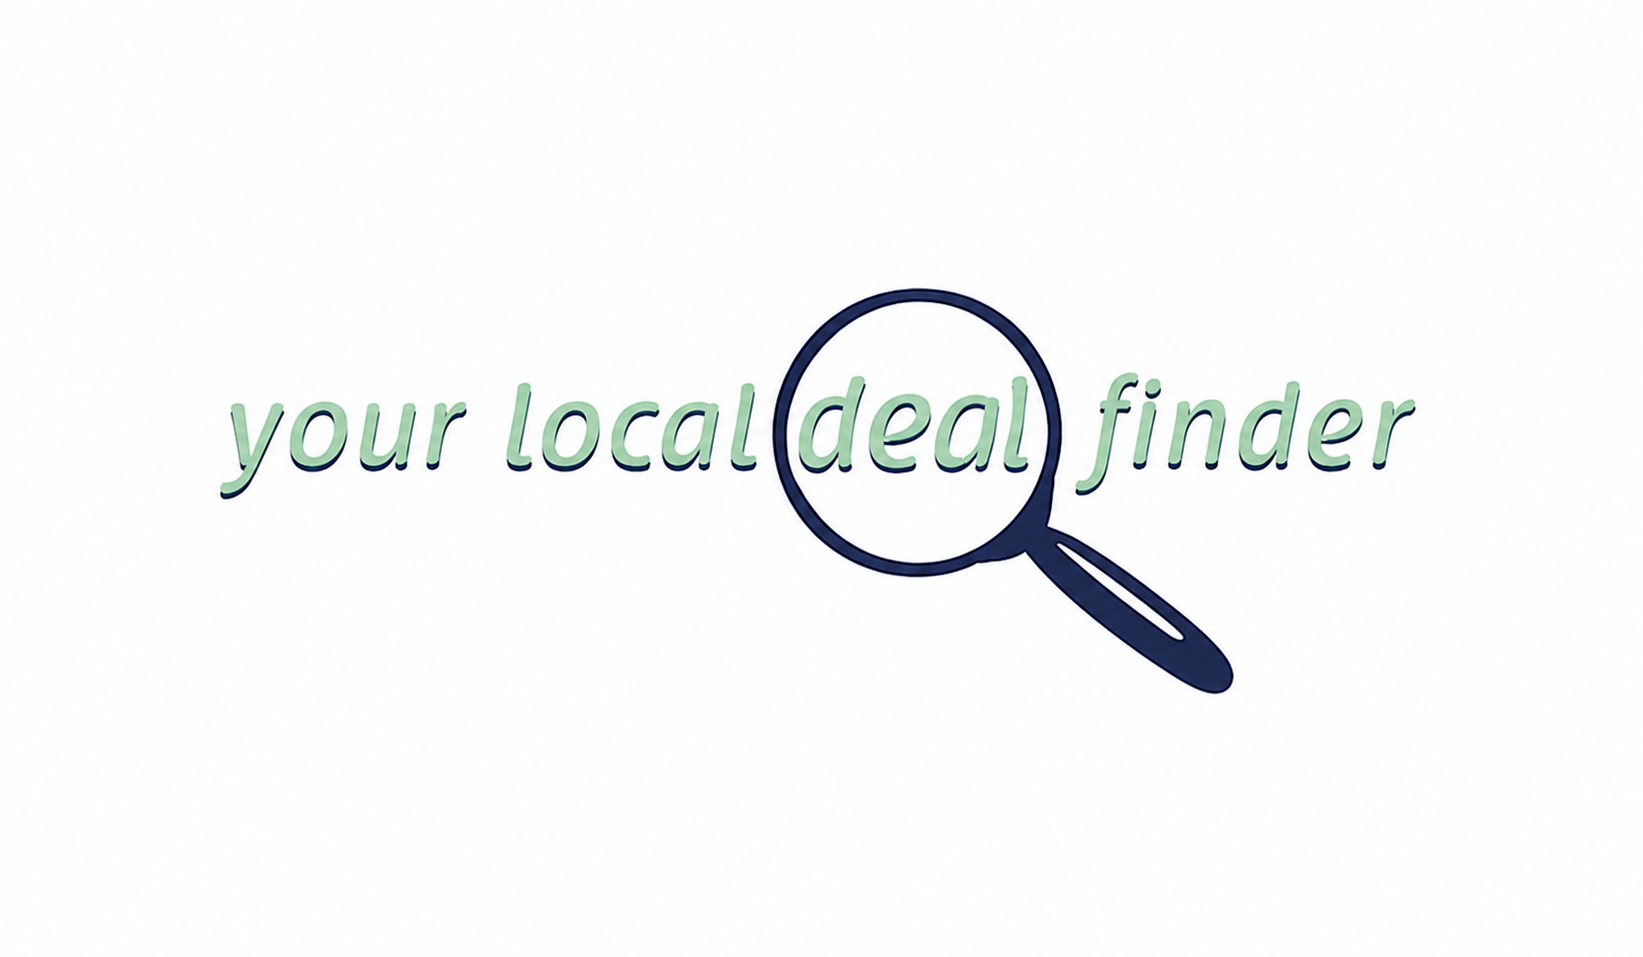
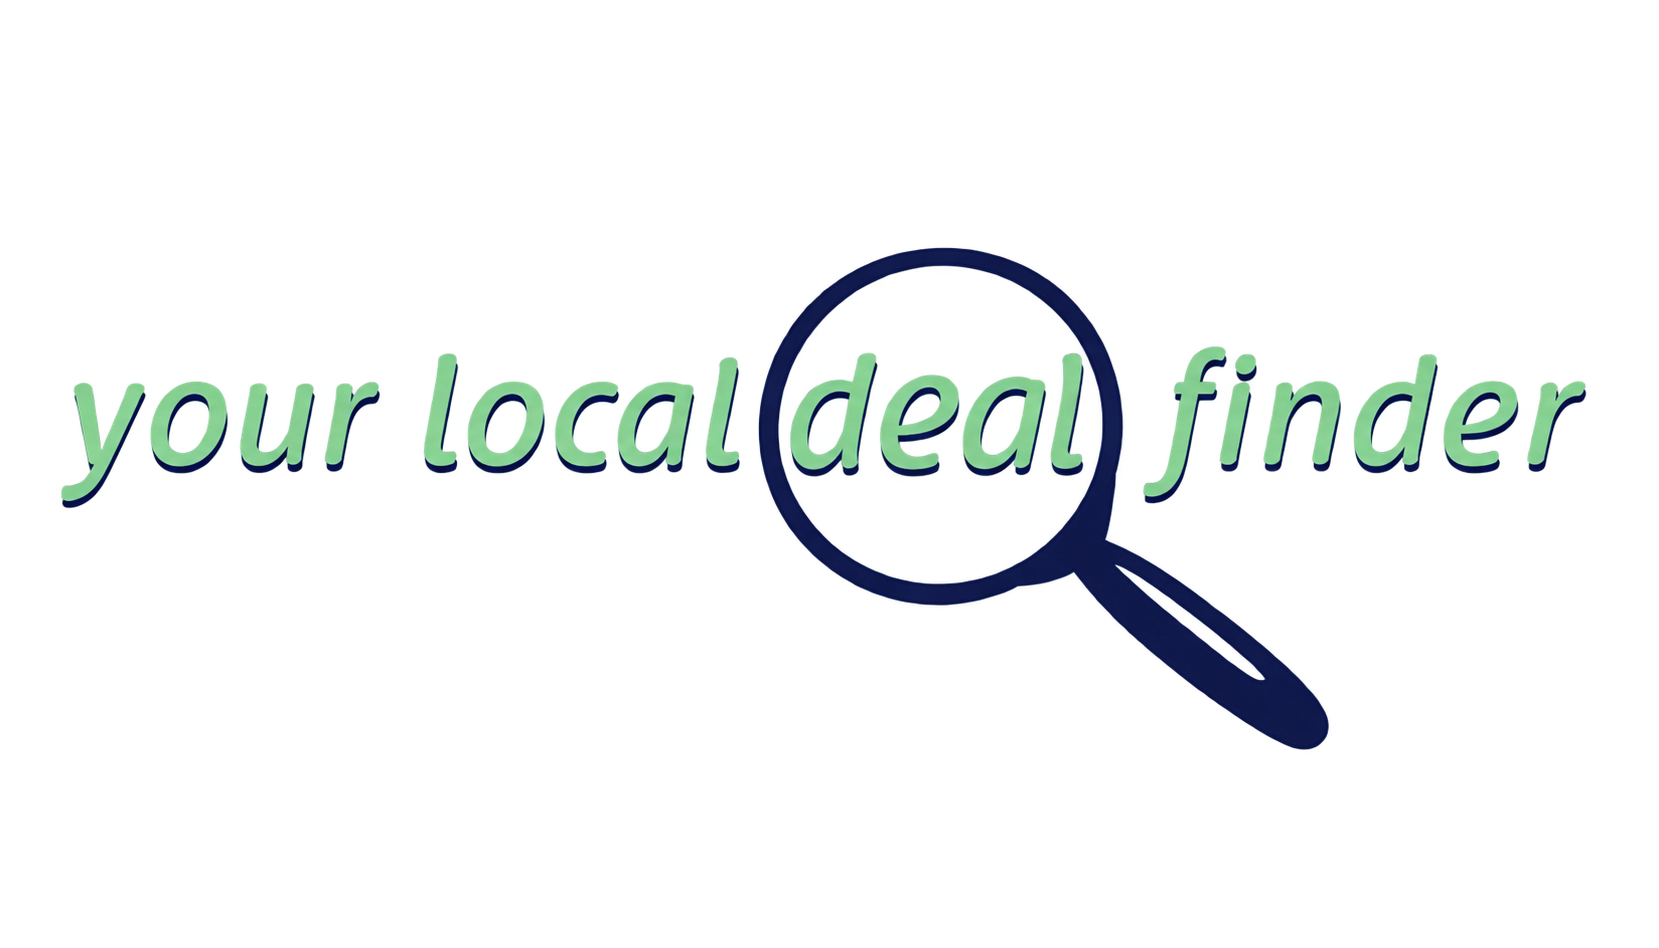
Bigger tagline image on Login

Changed region(s): [[0.031, 0.2447, 0.9623, 0.7954]]

diff --git a/src/pages/Login.jsx b/src/pages/Login.jsx
@@ -58,7 +58,7 @@ export default function Login() {
       <div className="w-full max-w-sm">
         <div className="text-center mb-2">
           <Wordmark className="h-24 mx-auto" />
-          <img src={taglineImg} alt="Your local deal finder" className="h-9 mx-auto mt-2" />
+          <img src={taglineImg} alt="Your local deal finder" className="h-16 mx-auto mt-2" />
         </div>
 
         {step === 'email' && (
